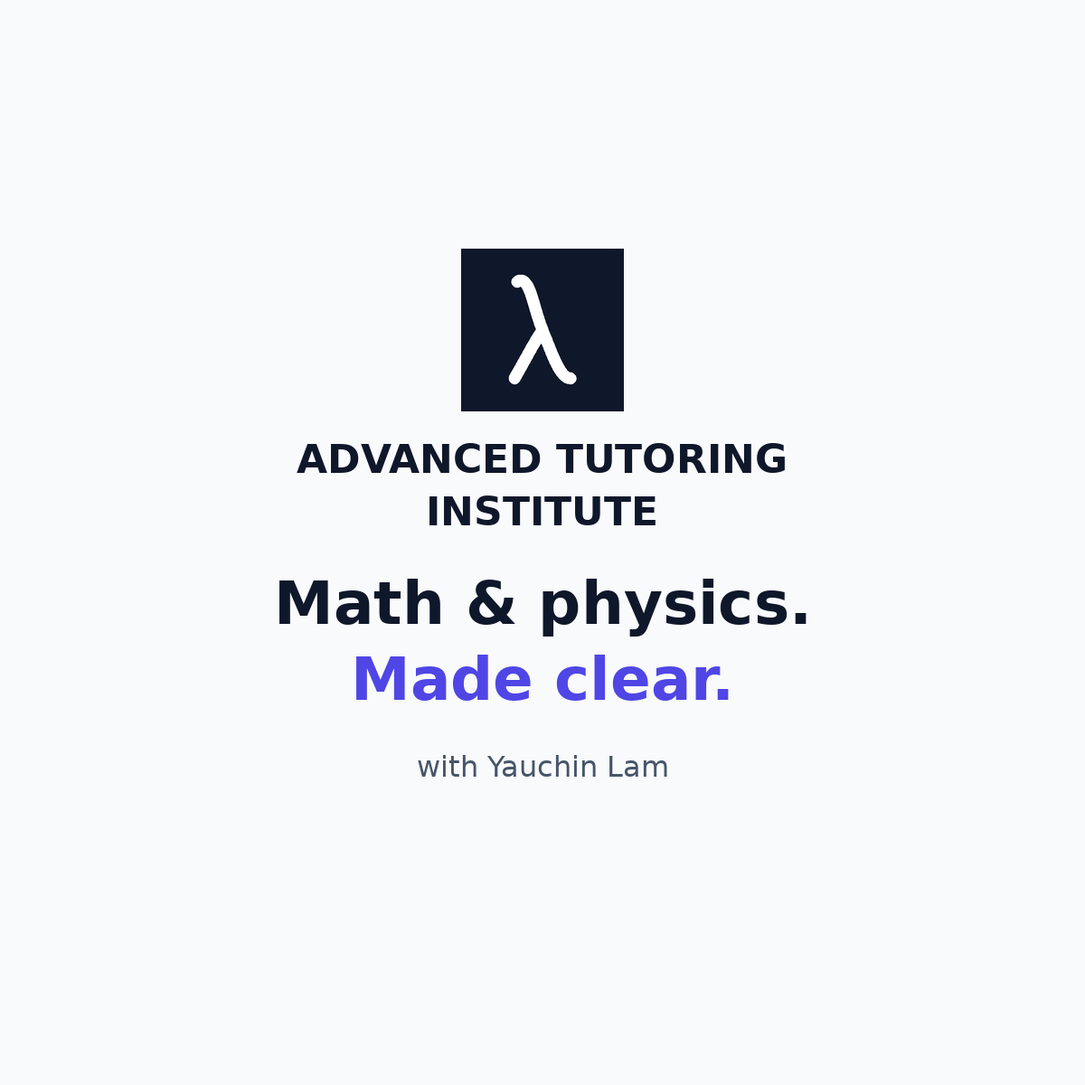
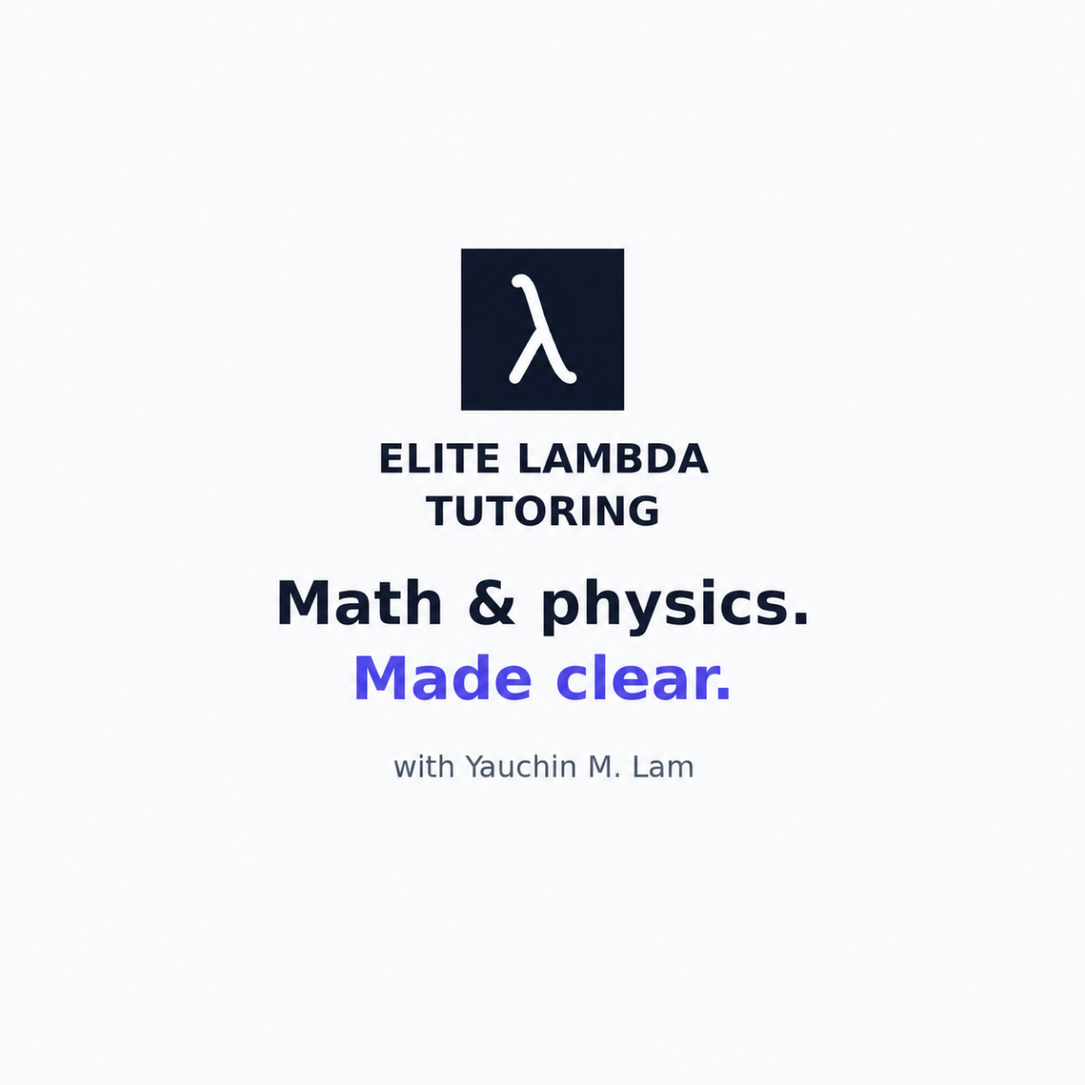
Rebrand website as Elite Lambda Tutoring

diff --git a/about.html b/about.html
@@ -11,7 +11,7 @@
   <!-- Keep sharing metadata static: most preview crawlers do not run site-config.js. -->
   <link rel="canonical" href="https://advancedtutoringinstitute.com/about.html">
   <meta property="og:type" content="website">
-  <meta property="og:site_name" content="Advanced Tutoring Institute">
+  <meta property="og:site_name" content="Elite Lambda Tutoring">
   <meta property="og:title" content="About Your Tutor | Yauchin M. Lam">
   <meta property="og:description" content="Meet Yauchin M. Lam, a mathematics and physics tutor with a Stevens mathematics degree, a Physics minor, and a patient approach to learning.">
   <meta property="og:url" content="https://advancedtutoringinstitute.com/about.html">
@@ -21,13 +21,13 @@
   <meta property="og:image:type" content="image/png">
   <meta property="og:image:width" content="1200">
   <meta property="og:image:height" content="1200">
-  <meta property="og:image:alt" content="Advanced Tutoring Institute. Math and physics made clear, with Yauchin M. Lam.">
+  <meta property="og:image:alt" content="Elite Lambda Tutoring. Math and physics made clear, with Yauchin M. Lam.">
   <meta name="twitter:card" content="summary_large_image">
   <meta name="twitter:title" content="About Your Tutor | Yauchin M. Lam">
   <meta name="twitter:description" content="Meet Yauchin M. Lam, a mathematics and physics tutor with a Stevens mathematics degree, a Physics minor, and a patient approach to learning.">
   <meta name="twitter:image" content="https://advancedtutoringinstitute.com/assets/social-preview.png">
-  <meta name="twitter:image:alt" content="Advanced Tutoring Institute. Math and physics made clear. One-on-one tutoring with Yauchin M. Lam. In-home in selected DMV areas and online nationwide.">
-  <title>About Your Tutor | Yauchin M. Lam | Advanced Tutoring Institute</title>
+  <meta name="twitter:image:alt" content="Elite Lambda Tutoring. Math and physics made clear. One-on-one tutoring with Yauchin M. Lam. In-home in selected DMV areas and online nationwide.">
+  <title>About Your Tutor | Yauchin M. Lam | Elite Lambda Tutoring</title>
   <link href="https://cdn.jsdelivr.net/npm/bootstrap@5.3.8/dist/css/bootstrap.min.css" rel="stylesheet" integrity="sha384-sRIl4kxILFvY47J16cr9ZwB07vP4J8+LH7qKQnuqkuIAvNWLzeN8tE5YBujZqJLB" crossorigin="anonymous">
   <link rel="stylesheet" href="styles.css">
   <script src="https://cdn.jsdelivr.net/npm/bootstrap@5.3.8/dist/js/bootstrap.bundle.min.js" integrity="sha384-FKyoEForCGlyvwx9Hj09JcYn3nv7wiPVlz7YYwJrWVcXK/BmnVDxM+D2scQbITxI" crossorigin="anonymous" defer></script>
@@ -40,7 +40,7 @@
   <header class="site-header">
     <nav class="navbar navbar-expand-xl py-3" aria-label="Main navigation">
       <div class="container">
-        <a class="brand navbar-brand" href="index.html" data-business-home aria-label="Tutor home"><span class="brand-mark" aria-hidden="true">λ</span><span><span data-business="businessName">Advanced Tutoring Institute</span><small>MATHEMATICS &amp; PHYSICS</small></span></a>
+        <a class="brand navbar-brand" href="index.html" data-business-home aria-label="Elite Lambda Tutoring home"><span class="brand-mark" aria-hidden="true">λ</span><span><span data-business="businessName">Elite Lambda Tutoring</span><small>MATHEMATICS &amp; PHYSICS</small></span></a>
         <button class="navbar-toggler" type="button" data-bs-toggle="collapse" data-bs-target="#main-navigation" aria-controls="main-navigation" aria-expanded="false" aria-label="Toggle navigation"><span class="navbar-toggler-icon"></span></button>
         <div class="collapse navbar-collapse" id="main-navigation">
           <ul class="navbar-nav ms-auto align-items-xl-center gap-xl-3 pt-3 pt-xl-0">
@@ -63,6 +63,6 @@
     <section class="container closing d-flex flex-column flex-lg-row align-items-start align-items-lg-center justify-content-between gap-4" aria-labelledby="closing-title"><div><h2 id="closing-title">Have a difficult course<br>or exam coming up?</h2><p>Whether you’re seeking help for yourself or your student, bring your questions. We’ll start with what makes sense and build from there.</p></div><a class="btn btn-primary button" href="book.html" data-booking-link><span data-business="primaryCta">Book a Tutoring Session</span> <span aria-hidden="true">↗</span></a></section>
   </main>
   <!-- Optional phone and social links stay hidden until valid public values are configured. -->
-  <footer><div class="container"><div class="footer-top d-flex flex-wrap justify-content-between align-items-center gap-4"><a class="brand" href="index.html"><span class="brand-mark" aria-hidden="true">λ</span><span><span data-business="businessName">Advanced Tutoring Institute</span><small>MATHEMATICS &amp; PHYSICS</small></span></a><div class="footer-contact d-flex flex-wrap gap-3"><a href="support.html">Support</a><a href="rates-faq.html#faq">FAQ</a><a data-contact="email" href="mailto:support@advancedtutoringinstitute.com">support@advancedtutoringinstitute.com</a><a data-contact="phone" hidden>Phone</a></div></div><nav class="mb-4" aria-label="Social links" data-social-links hidden><ul class="list-unstyled d-flex flex-wrap gap-3 mb-0"><li><a data-social="linkedin" hidden>LinkedIn</a></li><li><a data-social="instagram" hidden>Instagram</a></li><li><a data-social="facebook" hidden>Facebook</a></li><li><a data-social="youtube" hidden>YouTube</a></li></ul></nav><div class="footer-bottom d-flex flex-wrap justify-content-between gap-4"><p>© <span data-business="copyrightYear">2026</span> <span data-business="businessName">Advanced Tutoring Institute</span>. All rights reserved.</p><p>Book and pay through Calendly. Refer to your booking confirmation for appointment and meeting details.</p></div></div></footer>
+  <footer><div class="container"><div class="footer-top d-flex flex-wrap justify-content-between align-items-center gap-4"><a class="brand" href="index.html"><span class="brand-mark" aria-hidden="true">λ</span><span><span data-business="businessName">Elite Lambda Tutoring</span><small>MATHEMATICS &amp; PHYSICS</small></span></a><div class="footer-contact d-flex flex-wrap gap-3"><a href="support.html">Support</a><a href="rates-faq.html#faq">FAQ</a><a data-contact="email" href="mailto:support@advancedtutoringinstitute.com">support@advancedtutoringinstitute.com</a><a data-contact="phone" hidden>Phone</a></div></div><nav class="mb-4" aria-label="Social links" data-social-links hidden><ul class="list-unstyled d-flex flex-wrap gap-3 mb-0"><li><a data-social="linkedin" hidden>LinkedIn</a></li><li><a data-social="instagram" hidden>Instagram</a></li><li><a data-social="facebook" hidden>Facebook</a></li><li><a data-social="youtube" hidden>YouTube</a></li></ul></nav><div class="footer-bottom d-flex flex-wrap justify-content-between gap-4"><p>© <span data-business="copyrightYear">2026</span> <span data-business="businessName">Elite Lambda Tutoring</span>. All rights reserved.</p><p>Book and pay through Calendly. Refer to your booking confirmation for appointment and meeting details.</p></div></div></footer>
 </body>
 </html>

diff --git a/index.html b/index.html
@@ -11,7 +11,7 @@
   <!-- Keep sharing metadata static: most preview crawlers do not run site-config.js. -->
   <link rel="canonical" href="https://advancedtutoringinstitute.com/">
   <meta property="og:type" content="website">
-  <meta property="og:site_name" content="Advanced Tutoring Institute">
+  <meta property="og:site_name" content="Elite Lambda Tutoring">
   <meta property="og:title" content="Math &amp; Physics Tutoring | Yauchin M. Lam">
   <meta property="og:description" content="Patient, one-on-one tutoring for high-school and college students. In-home in selected DMV areas. Online nationwide.">
   <meta property="og:url" content="https://advancedtutoringinstitute.com/">
@@ -21,13 +21,13 @@
   <meta property="og:image:type" content="image/png">
   <meta property="og:image:width" content="1200">
   <meta property="og:image:height" content="1200">
-  <meta property="og:image:alt" content="Advanced Tutoring Institute. Math and physics made clear, with Yauchin M. Lam.">
+  <meta property="og:image:alt" content="Elite Lambda Tutoring. Math and physics made clear, with Yauchin M. Lam.">
   <meta name="twitter:card" content="summary_large_image">
   <meta name="twitter:title" content="Math &amp; Physics Tutoring | Yauchin M. Lam">
   <meta name="twitter:description" content="Patient, one-on-one tutoring for high-school and college students. In-home in selected DMV areas. Online nationwide.">
   <meta name="twitter:image" content="https://advancedtutoringinstitute.com/assets/social-preview.png">
-  <meta name="twitter:image:alt" content="Advanced Tutoring Institute. Math and physics made clear. One-on-one tutoring with Yauchin M. Lam. In-home in selected DMV areas and online nationwide.">
-  <title>Math &amp; Physics Tutoring | Yauchin M. Lam | Advanced Tutoring Institute</title>
+  <meta name="twitter:image:alt" content="Elite Lambda Tutoring. Math and physics made clear. One-on-one tutoring with Yauchin M. Lam. In-home in selected DMV areas and online nationwide.">
+  <title>Math &amp; Physics Tutoring | Yauchin M. Lam | Elite Lambda Tutoring</title>
   <link href="https://cdn.jsdelivr.net/npm/bootstrap@5.3.8/dist/css/bootstrap.min.css" rel="stylesheet" integrity="sha384-sRIl4kxILFvY47J16cr9ZwB07vP4J8+LH7qKQnuqkuIAvNWLzeN8tE5YBujZqJLB" crossorigin="anonymous">
   <link rel="stylesheet" href="styles.css">
   <script src="https://cdn.jsdelivr.net/npm/bootstrap@5.3.8/dist/js/bootstrap.bundle.min.js" integrity="sha384-FKyoEForCGlyvwx9Hj09JcYn3nv7wiPVlz7YYwJrWVcXK/BmnVDxM+D2scQbITxI" crossorigin="anonymous" defer></script>
@@ -40,7 +40,7 @@
   <header class="site-header">
     <nav class="navbar navbar-expand-xl py-3" aria-label="Main navigation">
       <div class="container">
-        <a class="brand navbar-brand" href="index.html" data-business-home aria-label="Tutor home"><span class="brand-mark" aria-hidden="true">λ</span><span><span data-business="businessName">Advanced Tutoring Institute</span><small>MATHEMATICS &amp; PHYSICS</small></span></a>
+        <a class="brand navbar-brand" href="index.html" data-business-home aria-label="Elite Lambda Tutoring home"><span class="brand-mark" aria-hidden="true">λ</span><span><span data-business="businessName">Elite Lambda Tutoring</span><small>MATHEMATICS &amp; PHYSICS</small></span></a>
         <button class="navbar-toggler" type="button" data-bs-toggle="collapse" data-bs-target="#main-navigation" aria-controls="main-navigation" aria-expanded="false" aria-label="Toggle navigation"><span class="navbar-toggler-icon"></span></button>
         <div class="collapse navbar-collapse" id="main-navigation">
           <ul class="navbar-nav ms-auto align-items-xl-center gap-xl-3 pt-3 pt-xl-0">
@@ -105,6 +105,6 @@
     <section class="container closing d-flex flex-column flex-lg-row align-items-start align-items-lg-center justify-content-between gap-4" aria-labelledby="closing-title"><div><h2 id="closing-title">Have a difficult course<br>or exam coming up?</h2><p>Whether you’re seeking help for yourself or your student, bring your questions. We’ll start with what makes sense and build from there.</p></div><a class="btn btn-primary button" href="book.html" data-booking-link><span data-business="primaryCta">Book a Tutoring Session</span> <span aria-hidden="true">↗</span></a></section>
   </main>
   <!-- Optional phone and social links stay hidden until valid public values are configured. -->
-  <footer><div class="container"><div class="footer-top d-flex flex-wrap justify-content-between align-items-center gap-4"><a class="brand" href="index.html"><span class="brand-mark" aria-hidden="true">λ</span><span><span data-business="businessName">Advanced Tutoring Institute</span><small>MATHEMATICS &amp; PHYSICS</small></span></a><div class="footer-contact d-flex flex-wrap gap-3"><a href="support.html">Support</a><a href="rates-faq.html#faq">FAQ</a><a data-contact="email" href="mailto:support@advancedtutoringinstitute.com">support@advancedtutoringinstitute.com</a><a data-contact="phone" hidden>Phone</a></div></div><nav class="mb-4" aria-label="Social links" data-social-links hidden><ul class="list-unstyled d-flex flex-wrap gap-3 mb-0"><li><a data-social="linkedin" hidden>LinkedIn</a></li><li><a data-social="instagram" hidden>Instagram</a></li><li><a data-social="facebook" hidden>Facebook</a></li><li><a data-social="youtube" hidden>YouTube</a></li></ul></nav><div class="footer-bottom d-flex flex-wrap justify-content-between gap-4"><p>© <span data-business="copyrightYear">2026</span> <span data-business="businessName">Advanced Tutoring Institute</span>. All rights reserved.</p><p>Book and pay through Calendly. Refer to your booking confirmation for appointment and meeting details.</p></div></div></footer>
+  <footer><div class="container"><div class="footer-top d-flex flex-wrap justify-content-between align-items-center gap-4"><a class="brand" href="index.html"><span class="brand-mark" aria-hidden="true">λ</span><span><span data-business="businessName">Elite Lambda Tutoring</span><small>MATHEMATICS &amp; PHYSICS</small></span></a><div class="footer-contact d-flex flex-wrap gap-3"><a href="support.html">Support</a><a href="rates-faq.html#faq">FAQ</a><a data-contact="email" href="mailto:support@advancedtutoringinstitute.com">support@advancedtutoringinstitute.com</a><a data-contact="phone" hidden>Phone</a></div></div><nav class="mb-4" aria-label="Social links" data-social-links hidden><ul class="list-unstyled d-flex flex-wrap gap-3 mb-0"><li><a data-social="linkedin" hidden>LinkedIn</a></li><li><a data-social="instagram" hidden>Instagram</a></li><li><a data-social="facebook" hidden>Facebook</a></li><li><a data-social="youtube" hidden>YouTube</a></li></ul></nav><div class="footer-bottom d-flex flex-wrap justify-content-between gap-4"><p>© <span data-business="copyrightYear">2026</span> <span data-business="businessName">Elite Lambda Tutoring</span>. All rights reserved.</p><p>Book and pay through Calendly. Refer to your booking confirmation for appointment and meeting details.</p></div></div></footer>
 </body>
 </html>

diff --git a/rates-faq.html b/rates-faq.html
@@ -11,7 +11,7 @@
   <!-- Keep sharing metadata static: most preview crawlers do not run site-config.js. -->
   <link rel="canonical" href="https://advancedtutoringinstitute.com/rates-faq.html">
   <meta property="og:type" content="website">
-  <meta property="og:site_name" content="Advanced Tutoring Institute">
+  <meta property="og:site_name" content="Elite Lambda Tutoring">
   <meta property="og:title" content="Tutoring Rates &amp; FAQ">
   <meta property="og:description" content="Explore 60-minute tutoring sessions, rates, payment, cancellation policies, and common questions about online and in-person tutoring.">
   <meta property="og:url" content="https://advancedtutoringinstitute.com/rates-faq.html">
@@ -21,13 +21,13 @@
   <meta property="og:image:type" content="image/png">
   <meta property="og:image:width" content="1200">
   <meta property="og:image:height" content="1200">
-  <meta property="og:image:alt" content="Advanced Tutoring Institute. Math and physics made clear, with Yauchin M. Lam.">
+  <meta property="og:image:alt" content="Elite Lambda Tutoring. Math and physics made clear, with Yauchin M. Lam.">
   <meta name="twitter:card" content="summary_large_image">
   <meta name="twitter:title" content="Tutoring Rates &amp; FAQ">
   <meta name="twitter:description" content="Explore 60-minute tutoring sessions, rates, payment, cancellation policies, and common questions about online and in-person tutoring.">
   <meta name="twitter:image" content="https://advancedtutoringinstitute.com/assets/social-preview.png">
-  <meta name="twitter:image:alt" content="Advanced Tutoring Institute. Math and physics made clear. One-on-one tutoring with Yauchin M. Lam. In-home in selected DMV areas and online nationwide.">
-  <title>Tutoring Rates &amp; FAQ | Advanced Tutoring Institute</title>
+  <meta name="twitter:image:alt" content="Elite Lambda Tutoring. Math and physics made clear. One-on-one tutoring with Yauchin M. Lam. In-home in selected DMV areas and online nationwide.">
+  <title>Tutoring Rates &amp; FAQ | Elite Lambda Tutoring</title>
   <link href="https://cdn.jsdelivr.net/npm/bootstrap@5.3.8/dist/css/bootstrap.min.css" rel="stylesheet" integrity="sha384-sRIl4kxILFvY47J16cr9ZwB07vP4J8+LH7qKQnuqkuIAvNWLzeN8tE5YBujZqJLB" crossorigin="anonymous">
   <link rel="stylesheet" href="styles.css">
   <script src="https://cdn.jsdelivr.net/npm/bootstrap@5.3.8/dist/js/bootstrap.bundle.min.js" integrity="sha384-FKyoEForCGlyvwx9Hj09JcYn3nv7wiPVlz7YYwJrWVcXK/BmnVDxM+D2scQbITxI" crossorigin="anonymous" defer></script>
@@ -40,7 +40,7 @@
   <header class="site-header">
     <nav class="navbar navbar-expand-xl py-3" aria-label="Main navigation">
       <div class="container">
-        <a class="brand navbar-brand" href="index.html" data-business-home aria-label="Tutor home"><span class="brand-mark" aria-hidden="true">λ</span><span><span data-business="businessName">Advanced Tutoring Institute</span><small>MATHEMATICS &amp; PHYSICS</small></span></a>
+        <a class="brand navbar-brand" href="index.html" data-business-home aria-label="Elite Lambda Tutoring home"><span class="brand-mark" aria-hidden="true">λ</span><span><span data-business="businessName">Elite Lambda Tutoring</span><small>MATHEMATICS &amp; PHYSICS</small></span></a>
         <button class="navbar-toggler" type="button" data-bs-toggle="collapse" data-bs-target="#main-navigation" aria-controls="main-navigation" aria-expanded="false" aria-label="Toggle navigation"><span class="navbar-toggler-icon"></span></button>
         <div class="collapse navbar-collapse" id="main-navigation">
           <ul class="navbar-nav ms-auto align-items-xl-center gap-xl-3 pt-3 pt-xl-0">
@@ -94,6 +94,6 @@
     <section class="container closing d-flex flex-column flex-lg-row align-items-start align-items-lg-center justify-content-between gap-4" aria-labelledby="closing-title"><div><h2 id="closing-title">Have a difficult course<br>or exam coming up?</h2><p>Whether you’re seeking help for yourself or your student, bring your questions. We’ll start with what makes sense and build from there.</p></div><a class="btn btn-primary button" href="book.html" data-booking-link><span data-business="primaryCta">Book a Tutoring Session</span> <span aria-hidden="true">↗</span></a></section>
   </main>
   <!-- Optional phone and social links stay hidden until valid public values are configured. -->
-  <footer><div class="container"><div class="footer-top d-flex flex-wrap justify-content-between align-items-center gap-4"><a class="brand" href="index.html"><span class="brand-mark" aria-hidden="true">λ</span><span><span data-business="businessName">Advanced Tutoring Institute</span><small>MATHEMATICS &amp; PHYSICS</small></span></a><div class="footer-contact d-flex flex-wrap gap-3"><a href="support.html">Support</a><a href="rates-faq.html#faq">FAQ</a><a data-contact="email" href="mailto:support@advancedtutoringinstitute.com">support@advancedtutoringinstitute.com</a><a data-contact="phone" hidden>Phone</a></div></div><nav class="mb-4" aria-label="Social links" data-social-links hidden><ul class="list-unstyled d-flex flex-wrap gap-3 mb-0"><li><a data-social="linkedin" hidden>LinkedIn</a></li><li><a data-social="instagram" hidden>Instagram</a></li><li><a data-social="facebook" hidden>Facebook</a></li><li><a data-social="youtube" hidden>YouTube</a></li></ul></nav><div class="footer-bottom d-flex flex-wrap justify-content-between gap-4"><p>© <span data-business="copyrightYear">2026</span> <span data-business="businessName">Advanced Tutoring Institute</span>. All rights reserved.</p><p>Book and pay through Calendly. Refer to your booking confirmation for appointment and meeting details.</p></div></div></footer>
+  <footer><div class="container"><div class="footer-top d-flex flex-wrap justify-content-between align-items-center gap-4"><a class="brand" href="index.html"><span class="brand-mark" aria-hidden="true">λ</span><span><span data-business="businessName">Elite Lambda Tutoring</span><small>MATHEMATICS &amp; PHYSICS</small></span></a><div class="footer-contact d-flex flex-wrap gap-3"><a href="support.html">Support</a><a href="rates-faq.html#faq">FAQ</a><a data-contact="email" href="mailto:support@advancedtutoringinstitute.com">support@advancedtutoringinstitute.com</a><a data-contact="phone" hidden>Phone</a></div></div><nav class="mb-4" aria-label="Social links" data-social-links hidden><ul class="list-unstyled d-flex flex-wrap gap-3 mb-0"><li><a data-social="linkedin" hidden>LinkedIn</a></li><li><a data-social="instagram" hidden>Instagram</a></li><li><a data-social="facebook" hidden>Facebook</a></li><li><a data-social="youtube" hidden>YouTube</a></li></ul></nav><div class="footer-bottom d-flex flex-wrap justify-content-between gap-4"><p>© <span data-business="copyrightYear">2026</span> <span data-business="businessName">Elite Lambda Tutoring</span>. All rights reserved.</p><p>Book and pay through Calendly. Refer to your booking confirmation for appointment and meeting details.</p></div></div></footer>
 </body>
 </html>

diff --git a/book.html b/book.html
@@ -11,7 +11,7 @@
   <!-- Keep sharing metadata static: most preview crawlers do not run site-config.js. -->
   <link rel="canonical" href="https://advancedtutoringinstitute.com/book.html">
   <meta property="og:type" content="website">
-  <meta property="og:site_name" content="Advanced Tutoring Institute">
+  <meta property="og:site_name" content="Elite Lambda Tutoring">
   <meta property="og:title" content="Book Math &amp; Physics Tutoring">
   <meta property="og:description" content="Book a 60-minute mathematics or physics tutoring session online nationwide or in person within selected DMV service areas.">
   <meta property="og:url" content="https://advancedtutoringinstitute.com/book.html">
@@ -21,13 +21,13 @@
   <meta property="og:image:type" content="image/png">
   <meta property="og:image:width" content="1200">
   <meta property="og:image:height" content="1200">
-  <meta property="og:image:alt" content="Advanced Tutoring Institute. Math and physics made clear, with Yauchin M. Lam.">
+  <meta property="og:image:alt" content="Elite Lambda Tutoring. Math and physics made clear, with Yauchin M. Lam.">
   <meta name="twitter:card" content="summary_large_image">
   <meta name="twitter:title" content="Book Math &amp; Physics Tutoring">
   <meta name="twitter:description" content="Book a 60-minute mathematics or physics tutoring session online nationwide or in person within selected DMV service areas.">
   <meta name="twitter:image" content="https://advancedtutoringinstitute.com/assets/social-preview.png">
-  <meta name="twitter:image:alt" content="Advanced Tutoring Institute. Math and physics made clear. One-on-one tutoring with Yauchin M. Lam. In-home in selected DMV areas and online nationwide.">
-  <title>Book Math &amp; Physics Tutoring | Advanced Tutoring Institute</title>
+  <meta name="twitter:image:alt" content="Elite Lambda Tutoring. Math and physics made clear. One-on-one tutoring with Yauchin M. Lam. In-home in selected DMV areas and online nationwide.">
+  <title>Book Math &amp; Physics Tutoring | Elite Lambda Tutoring</title>
   <link href="https://cdn.jsdelivr.net/npm/bootstrap@5.3.8/dist/css/bootstrap.min.css" rel="stylesheet" integrity="sha384-sRIl4kxILFvY47J16cr9ZwB07vP4J8+LH7qKQnuqkuIAvNWLzeN8tE5YBujZqJLB" crossorigin="anonymous">
   <link rel="stylesheet" href="styles.css">
   <script src="https://cdn.jsdelivr.net/npm/bootstrap@5.3.8/dist/js/bootstrap.bundle.min.js" integrity="sha384-FKyoEForCGlyvwx9Hj09JcYn3nv7wiPVlz7YYwJrWVcXK/BmnVDxM+D2scQbITxI" crossorigin="anonymous" defer></script>
@@ -40,7 +40,7 @@
   <header class="site-header">
     <nav class="navbar navbar-expand-xl py-3" aria-label="Main navigation">
       <div class="container">
-        <a class="brand navbar-brand" href="index.html" data-business-home aria-label="Tutor home"><span class="brand-mark" aria-hidden="true">λ</span><span><span data-business="businessName">Advanced Tutoring Institute</span><small>MATHEMATICS &amp; PHYSICS</small></span></a>
+        <a class="brand navbar-brand" href="index.html" data-business-home aria-label="Elite Lambda Tutoring home"><span class="brand-mark" aria-hidden="true">λ</span><span><span data-business="businessName">Elite Lambda Tutoring</span><small>MATHEMATICS &amp; PHYSICS</small></span></a>
         <button class="navbar-toggler" type="button" data-bs-toggle="collapse" data-bs-target="#main-navigation" aria-controls="main-navigation" aria-expanded="false" aria-label="Toggle navigation"><span class="navbar-toggler-icon"></span></button>
         <div class="collapse navbar-collapse" id="main-navigation">
           <ul class="navbar-nav ms-auto align-items-xl-center gap-xl-3 pt-3 pt-xl-0">
@@ -65,6 +65,6 @@
     </div></section>
   </main>
   <!-- Optional phone and social links stay hidden until valid public values are configured. -->
-  <footer><div class="container"><div class="footer-top d-flex flex-wrap justify-content-between align-items-center gap-4"><a class="brand" href="index.html"><span class="brand-mark" aria-hidden="true">λ</span><span><span data-business="businessName">Advanced Tutoring Institute</span><small>MATHEMATICS &amp; PHYSICS</small></span></a><div class="footer-contact d-flex flex-wrap gap-3"><a href="support.html">Support</a><a href="rates-faq.html#faq">FAQ</a><a data-contact="email" href="mailto:support@advancedtutoringinstitute.com">support@advancedtutoringinstitute.com</a><a data-contact="phone" hidden>Phone</a></div></div><nav class="mb-4" aria-label="Social links" data-social-links hidden><ul class="list-unstyled d-flex flex-wrap gap-3 mb-0"><li><a data-social="linkedin" hidden>LinkedIn</a></li><li><a data-social="instagram" hidden>Instagram</a></li><li><a data-social="facebook" hidden>Facebook</a></li><li><a data-social="youtube" hidden>YouTube</a></li></ul></nav><div class="footer-bottom d-flex flex-wrap justify-content-between gap-4"><p>© <span data-business="copyrightYear">2026</span> <span data-business="businessName">Advanced Tutoring Institute</span>. All rights reserved.</p><p>Book and pay through Calendly. Refer to your booking confirmation for appointment and meeting details.</p></div></div></footer>
+  <footer><div class="container"><div class="footer-top d-flex flex-wrap justify-content-between align-items-center gap-4"><a class="brand" href="index.html"><span class="brand-mark" aria-hidden="true">λ</span><span><span data-business="businessName">Elite Lambda Tutoring</span><small>MATHEMATICS &amp; PHYSICS</small></span></a><div class="footer-contact d-flex flex-wrap gap-3"><a href="support.html">Support</a><a href="rates-faq.html#faq">FAQ</a><a data-contact="email" href="mailto:support@advancedtutoringinstitute.com">support@advancedtutoringinstitute.com</a><a data-contact="phone" hidden>Phone</a></div></div><nav class="mb-4" aria-label="Social links" data-social-links hidden><ul class="list-unstyled d-flex flex-wrap gap-3 mb-0"><li><a data-social="linkedin" hidden>LinkedIn</a></li><li><a data-social="instagram" hidden>Instagram</a></li><li><a data-social="facebook" hidden>Facebook</a></li><li><a data-social="youtube" hidden>YouTube</a></li></ul></nav><div class="footer-bottom d-flex flex-wrap justify-content-between gap-4"><p>© <span data-business="copyrightYear">2026</span> <span data-business="businessName">Elite Lambda Tutoring</span>. All rights reserved.</p><p>Book and pay through Calendly. Refer to your booking confirmation for appointment and meeting details.</p></div></div></footer>
 </body>
 </html>

diff --git a/support.html b/support.html
@@ -11,7 +11,7 @@
   <!-- Keep sharing metadata static: most preview crawlers do not run site-config.js. -->
   <link rel="canonical" href="https://advancedtutoringinstitute.com/support.html">
   <meta property="og:type" content="website">
-  <meta property="og:site_name" content="Advanced Tutoring Institute">
+  <meta property="og:site_name" content="Elite Lambda Tutoring">
   <meta property="og:title" content="Tutoring Support">
   <meta property="og:description" content="Get support for tutoring bookings, session preparation, payment questions, and online meeting access.">
   <meta property="og:url" content="https://advancedtutoringinstitute.com/support.html">
@@ -21,13 +21,13 @@
   <meta property="og:image:type" content="image/png">
   <meta property="og:image:width" content="1200">
   <meta property="og:image:height" content="1200">
-  <meta property="og:image:alt" content="Advanced Tutoring Institute. Math and physics made clear, with Yauchin M. Lam.">
+  <meta property="og:image:alt" content="Elite Lambda Tutoring. Math and physics made clear, with Yauchin M. Lam.">
   <meta name="twitter:card" content="summary_large_image">
   <meta name="twitter:title" content="Tutoring Support">
   <meta name="twitter:description" content="Get support for tutoring bookings, session preparation, payment questions, and online meeting access.">
   <meta name="twitter:image" content="https://advancedtutoringinstitute.com/assets/social-preview.png">
-  <meta name="twitter:image:alt" content="Advanced Tutoring Institute. Math and physics made clear. One-on-one tutoring with Yauchin M. Lam. In-home in selected DMV areas and online nationwide.">
-  <title>Tutoring Support | Advanced Tutoring Institute</title>
+  <meta name="twitter:image:alt" content="Elite Lambda Tutoring. Math and physics made clear. One-on-one tutoring with Yauchin M. Lam. In-home in selected DMV areas and online nationwide.">
+  <title>Tutoring Support | Elite Lambda Tutoring</title>
   <link href="https://cdn.jsdelivr.net/npm/bootstrap@5.3.8/dist/css/bootstrap.min.css" rel="stylesheet" integrity="sha384-sRIl4kxILFvY47J16cr9ZwB07vP4J8+LH7qKQnuqkuIAvNWLzeN8tE5YBujZqJLB" crossorigin="anonymous">
   <link rel="stylesheet" href="styles.css">
   <script src="https://cdn.jsdelivr.net/npm/bootstrap@5.3.8/dist/js/bootstrap.bundle.min.js" integrity="sha384-FKyoEForCGlyvwx9Hj09JcYn3nv7wiPVlz7YYwJrWVcXK/BmnVDxM+D2scQbITxI" crossorigin="anonymous" defer></script>
@@ -40,7 +40,7 @@
   <header class="site-header">
     <nav class="navbar navbar-expand-xl py-3" aria-label="Main navigation">
       <div class="container">
-        <a class="brand navbar-brand" href="index.html" data-business-home aria-label="Tutor home"><span class="brand-mark" aria-hidden="true">λ</span><span><span data-business="businessName">Advanced Tutoring Institute</span><small>MATHEMATICS &amp; PHYSICS</small></span></a>
+        <a class="brand navbar-brand" href="index.html" data-business-home aria-label="Elite Lambda Tutoring home"><span class="brand-mark" aria-hidden="true">λ</span><span><span data-business="businessName">Elite Lambda Tutoring</span><small>MATHEMATICS &amp; PHYSICS</small></span></a>
         <button class="navbar-toggler" type="button" data-bs-toggle="collapse" data-bs-target="#main-navigation" aria-controls="main-navigation" aria-expanded="false" aria-label="Toggle navigation"><span class="navbar-toggler-icon"></span></button>
         <div class="collapse navbar-collapse" id="main-navigation">
           <ul class="navbar-nav ms-auto align-items-xl-center gap-xl-3 pt-3 pt-xl-0">
@@ -74,6 +74,6 @@
     </div></div></section>
   </main>
   <!-- Optional phone and social links stay hidden until valid public values are configured. -->
-  <footer><div class="container"><div class="footer-top d-flex flex-wrap justify-content-between align-items-center gap-4"><a class="brand" href="index.html"><span class="brand-mark" aria-hidden="true">λ</span><span><span data-business="businessName">Advanced Tutoring Institute</span><small>MATHEMATICS &amp; PHYSICS</small></span></a><div class="footer-contact d-flex flex-wrap gap-3"><a href="support.html">Support</a><a href="rates-faq.html#faq">FAQ</a><a data-contact="email" href="mailto:support@advancedtutoringinstitute.com">support@advancedtutoringinstitute.com</a><a data-contact="phone" hidden>Phone</a></div></div><nav class="mb-4" aria-label="Social links" data-social-links hidden><ul class="list-unstyled d-flex flex-wrap gap-3 mb-0"><li><a data-social="linkedin" hidden>LinkedIn</a></li><li><a data-social="instagram" hidden>Instagram</a></li><li><a data-social="facebook" hidden>Facebook</a></li><li><a data-social="youtube" hidden>YouTube</a></li></ul></nav><div class="footer-bottom d-flex flex-wrap justify-content-between gap-4"><p>© <span data-business="copyrightYear">2026</span> <span data-business="businessName">Advanced Tutoring Institute</span>. All rights reserved.</p><p>Book and pay through Calendly. Refer to your booking confirmation for appointment and meeting details.</p></div></div></footer>
+  <footer><div class="container"><div class="footer-top d-flex flex-wrap justify-content-between align-items-center gap-4"><a class="brand" href="index.html"><span class="brand-mark" aria-hidden="true">λ</span><span><span data-business="businessName">Elite Lambda Tutoring</span><small>MATHEMATICS &amp; PHYSICS</small></span></a><div class="footer-contact d-flex flex-wrap gap-3"><a href="support.html">Support</a><a href="rates-faq.html#faq">FAQ</a><a data-contact="email" href="mailto:support@advancedtutoringinstitute.com">support@advancedtutoringinstitute.com</a><a data-contact="phone" hidden>Phone</a></div></div><nav class="mb-4" aria-label="Social links" data-social-links hidden><ul class="list-unstyled d-flex flex-wrap gap-3 mb-0"><li><a data-social="linkedin" hidden>LinkedIn</a></li><li><a data-social="instagram" hidden>Instagram</a></li><li><a data-social="facebook" hidden>Facebook</a></li><li><a data-social="youtube" hidden>YouTube</a></li></ul></nav><div class="footer-bottom d-flex flex-wrap justify-content-between gap-4"><p>© <span data-business="copyrightYear">2026</span> <span data-business="businessName">Elite Lambda Tutoring</span>. All rights reserved.</p><p>Book and pay through Calendly. Refer to your booking confirmation for appointment and meeting details.</p></div></div></footer>
 </body>
 </html>

diff --git a/site-config.js b/site-config.js
@@ -4,7 +4,7 @@
 // Never store API keys, payment secrets, passwords, or private tokens here.
 // Leave optional contact and social values blank to hide their links.
 const SITE_CONFIG = {
-  businessName: 'Advanced Tutoring Institute',
+  businessName: 'Elite Lambda Tutoring',
   publicName: 'Yauchin M. Lam',
   professionalTitle: 'Advanced Math & Physics Tutor | Senior Software Engineer',
   locationText: 'In-Person Tutoring in Selected DMV Areas | Online Nationwide',

diff --git a/README.md b/README.md
@@ -1,4 +1,4 @@
-# Advanced Tutoring Website
+# Elite Lambda Tutoring Website
 
 A responsive static website for an independent mathematics and physics tutor. Built with semantic HTML, Bootstrap 5.3.8 via CDN, custom CSS, and a small vanilla JavaScript file. No package installation, JavaScript application framework, or build step is required.
 
